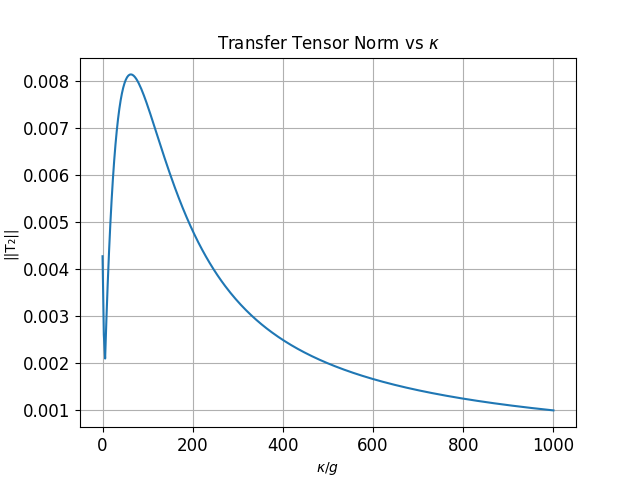
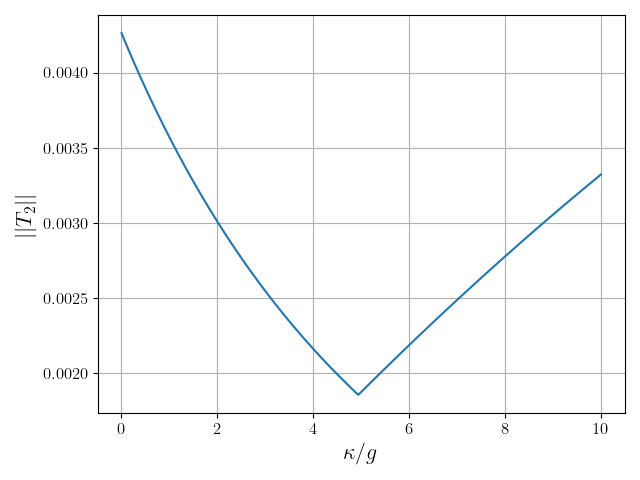
Enhance kappa sweep and Liouvillian computation; update plot aesthetics and save results

diff --git a/anharmonic baths/norm_vs_kappa.py b/anharmonic baths/norm_vs_kappa.py
@@ -2,6 +2,8 @@
 import numpy as np
 from scipy.linalg import expm
 import matplotlib.pyplot as plt
+
+# latex stuff
 plt.rc('text', usetex=True)
 plt.rc('font', family='serif')
 
@@ -38,37 +40,40 @@ Hint = g * np.kron(sx, ad + a)
 H = np.kron(Ha, Idv) + np.kron(Ida, Hv) + Hint
 Id = np.kron(Ida, Idv)
 
-# Bath initially in ground state
+# oscillator initially in ground state
 rhov0 = np.zeros((nmax, nmax))
 rhov0[0, 0] = 1 
 
-# Initial total density matrix: system in ground state, bath in rhov0
+# Expanders and Tracers for reduced dynamics
 Expander = np.kron(np.eye(4), rhov0.flatten()).T
-
-# Partial trace over bath
 Tracer = np.kron(np.eye(4), Idv.flatten())
 
 # Sweep over kappa values
-kappa_list = np.linspace(0, 100, 3)
+min_kappa = 0.0
+max_kappa = 10.0 * g # set it even bigger to oberve how it goes to zero
+kappa_list = np.linspace(min_kappa, max_kappa, 1000)
 norm_T2_list = []
+
+def liouvillian(kappa):
+    return (1j * (np.kron(H, Id) - np.kron(Id, H.T)) +
+            kappa * (nbar + 1) * (2 * np.kron(np.kron(Ida, a), np.kron(Ida, ad).T)
+                                   - np.kron(np.kron(Ida, ad @ a), Id)
+                                   - np.kron(Id, np.kron(Ida, ad @ a))) +
+            kappa * nbar * (2 * np.kron(np.kron(Ida, ad), np.kron(Ida, a).T)
+                            - np.kron(np.kron(Ida, a @ ad), Id)
+                            - np.kron(Id, np.kron(Ida, a @ ad))))
 
 for kappa in kappa_list:
     print(f"Calculating for kappa = {kappa:.2f}")
+
+    # compute Liouvillian superoperator for current kappa
+    L = liouvillian(kappa)
     
-    # Liouvillian superoperator
-    L = (1j * (np.kron(H, Id) - np.kron(Id, H.T)) +
-         kappa * (nbar + 1) * (2*np.kron(np.kron(Ida, a), np.kron(Ida, ad).T)
-         - np.kron(np.kron(Ida, ad@a), Id)
-         - np.kron(Id, np.kron(Ida, ad@a))) +
-         kappa * nbar * (2*np.kron(np.kron(Ida, ad), np.kron(Ida, a).T)
-         - np.kron(np.kron(Ida, a@ad), Id)
-         - np.kron(Id, np.kron(Ida, a@ad))))
-
-    # Dynamical maps
+    # Full system dynamical maps
     EL = expm(L * dt)
-    EL2 = EL @ EL
+    EL2 = expm(L * 2 * dt)
 
-    # Reduced maps
+    # Reduced dynamical maps
     E1 = Tracer @ EL @ Expander
     E2 = Tracer @ EL2 @ Expander
 
@@ -77,18 +82,21 @@ for kappa in kappa_list:
 
     norm_T2_list.append(np.linalg.norm(T2, 2)) 
 
+
+# Remove the first two points from both lists (numerical artifact at kappa~0)
+kappa_list = kappa_list[2:]
+norm_T2_list = norm_T2_list[2:]
+
 # Plot results
 plt.figure()
-plt.plot(kappa_list/g, norm_T2_list, label='Spectral Norm') 
-# plt.legend()
+plt.plot(kappa_list/g, norm_T2_list)
 plt.tick_params(labelsize=12)
 plt.rc('text', usetex=True)
 plt.rc('font', family='serif')
-plt.xlabel(r"$\kappa/g$")
-plt.ylabel(r"||T₂||")
-plt.title(r"Transfer Tensor Norm vs $\kappa$")
+plt.xlabel(r"$\kappa/g$", fontsize=16)
+plt.ylabel(r"$||T_2||$", fontsize=16)
+plt.tight_layout()
 plt.grid(True)
 plt.savefig("transfer_tensor_norm.png")
 plt.show()
 
-print("Done! Plot saved as transfer_tensor_norm.png")
